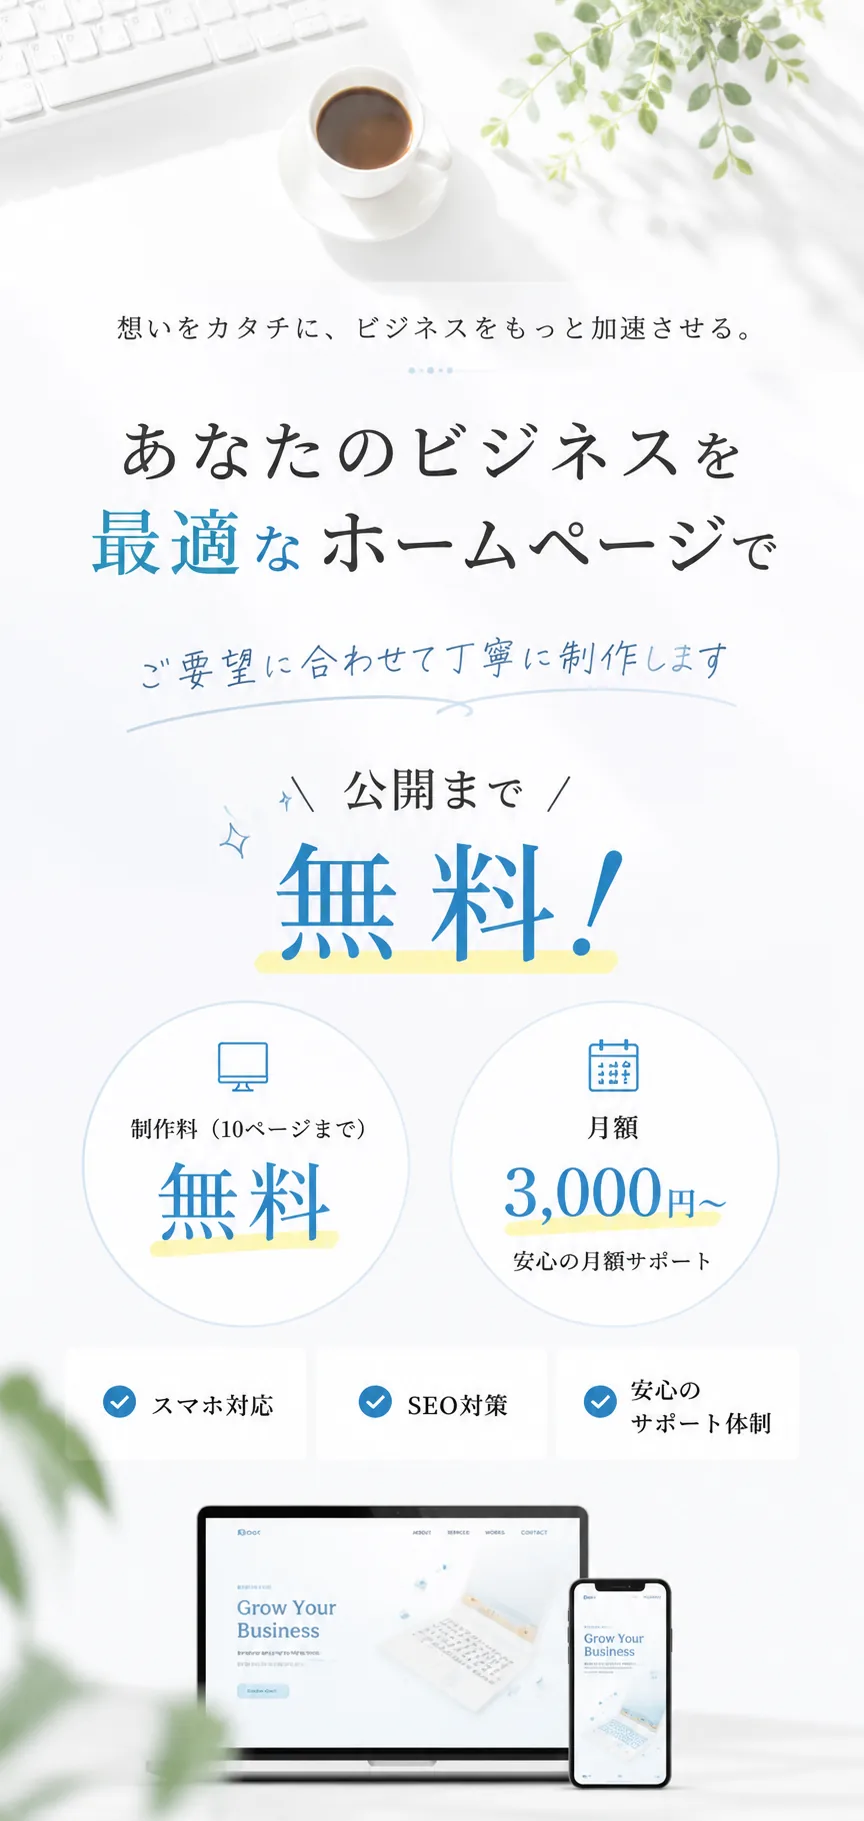
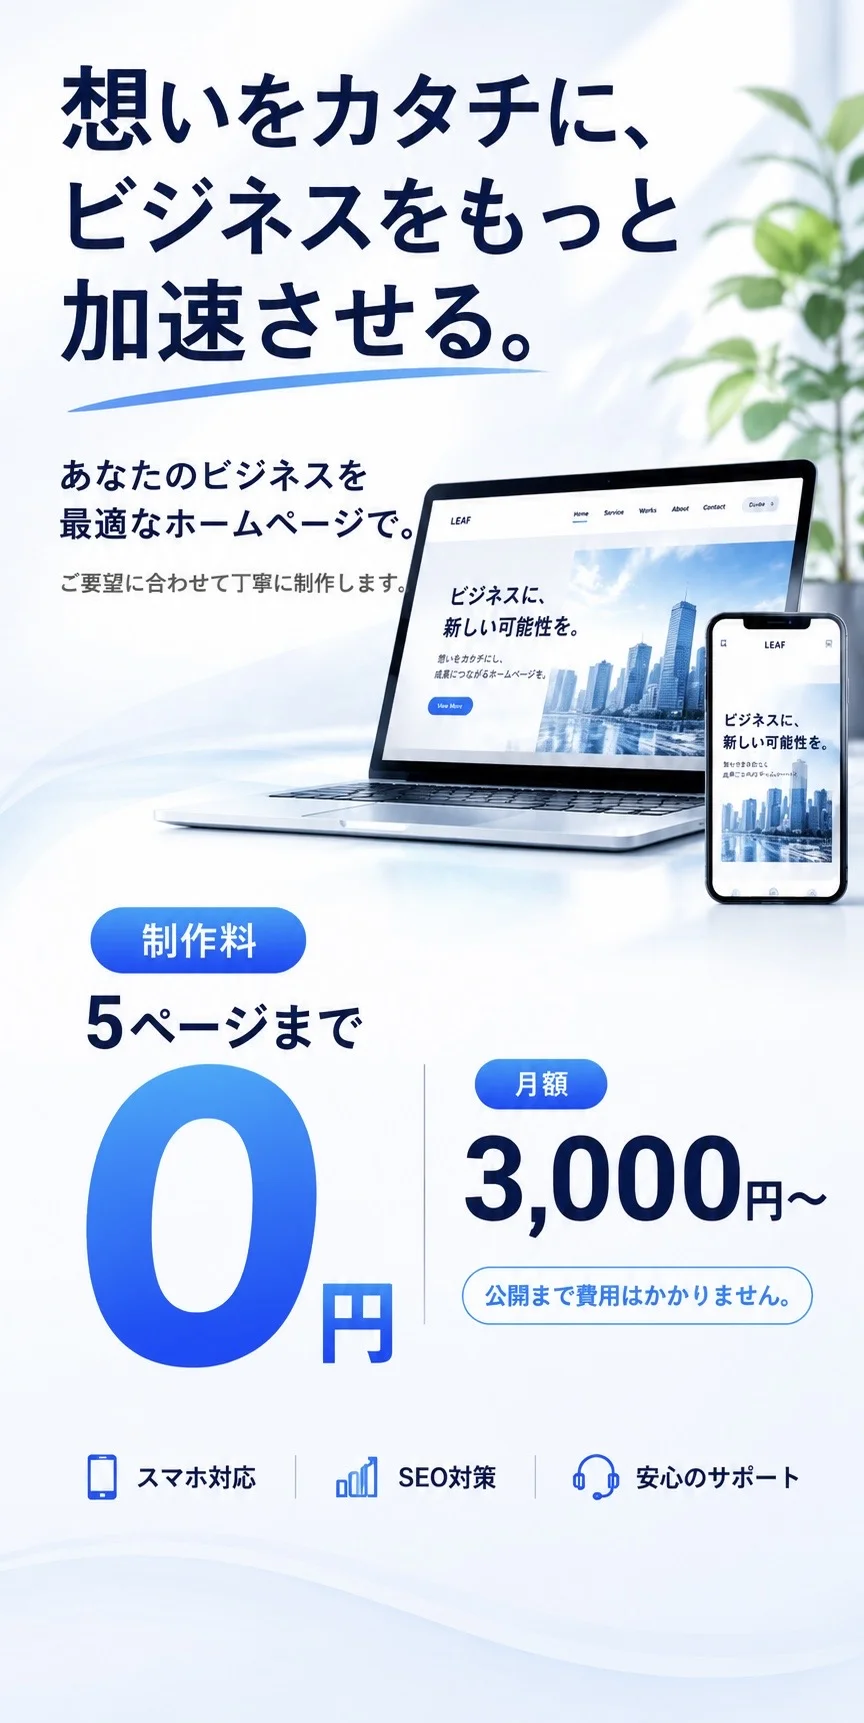
Replace top page LP images with new 5-section design (#2)

diff --git a/index.html b/index.html
@@ -53,8 +53,11 @@
 </head>
 <body>
 <main>
-  <img src="assets/images/section1.webp" alt="想いをカタチに、ビジネスをもっと加速させる。あなたのビジネスを最適なホームページで。ご要望に合わせて丁寧に制作します。公開まで無料！制作料（10ページまで）無料、月額3,000円〜。スマホ対応・SEO対策・安心のサポート体制。" width="864" height="1821" fetchpriority="high">
-  <img src="assets/images/section2.webp" alt="公開までずっと無料！ご満足いただけるまで何度でも制作・修正OK！制作の流れ：ヒアリング、ご提案・お見積り、デザイン制作、ご確認・修正、公開（納品）。シンプルでわかりやすい料金プラン。選ばれる理由：スマホ対応、SEO対策、安心のサポート体制、初めてでも安心。まずはお気軽にご相談ください。無料で相談する。" width="862" height="1825" loading="lazy">
+  <img src="assets/images/section1.webp" alt="想いをカタチに、ビジネスをもっと加速させる。あなたのビジネスを最適なホームページで。ご要望に合わせて丁寧に制作します。制作料5ページまで0円、月額3,000円〜。公開まで費用はかかりません。スマホ対応・SEO対策・安心のサポート。" width="864" height="1723" fetchpriority="high">
+  <img src="assets/images/section2.webp" alt="NO RISK。ご満足いただけるまで費用は一切かかりません。公開までずっと無料。安心してご依頼ください。制作の流れ：01ヒアリング、02ご提案・お見積り、03デザイン制作、04ご確認・修正、05公開・納品。" width="864" height="1821" loading="lazy">
+  <img src="assets/images/section3.webp" alt="PRICE。シンプルで、わかりやすい料金。ホームページ開設まで完全無料。ホームページ制作5ページまで制作料0円（デザイン制作・コーディング・スマホ対応・フォーム設置込み）。6ページ目以降1ページ5,000円（税込）。公開後の運用は月額3,000円〜。" width="864" height="1821" loading="lazy">
+  <img src="assets/images/section4.webp" alt="WHY LEAF。はじめてのホームページも、安心してお任せください。01スマホ対応、02SEO対策、03安心のサポート体制、04初めてでも安心。" width="864" height="1821" loading="lazy">
+  <img src="assets/images/section5.webp" alt="CONTACT。まずはお気軽にご相談ください。相談無料・見積り無料・公開まで無料。制作料5ページまで0円、月額3,000円〜。LEAF 想いをカタチに、ビジネスをもっと加速させる。" width="862" height="1825" loading="lazy">
 </main>
 <footer>
   &copy; 2026 LEAF
